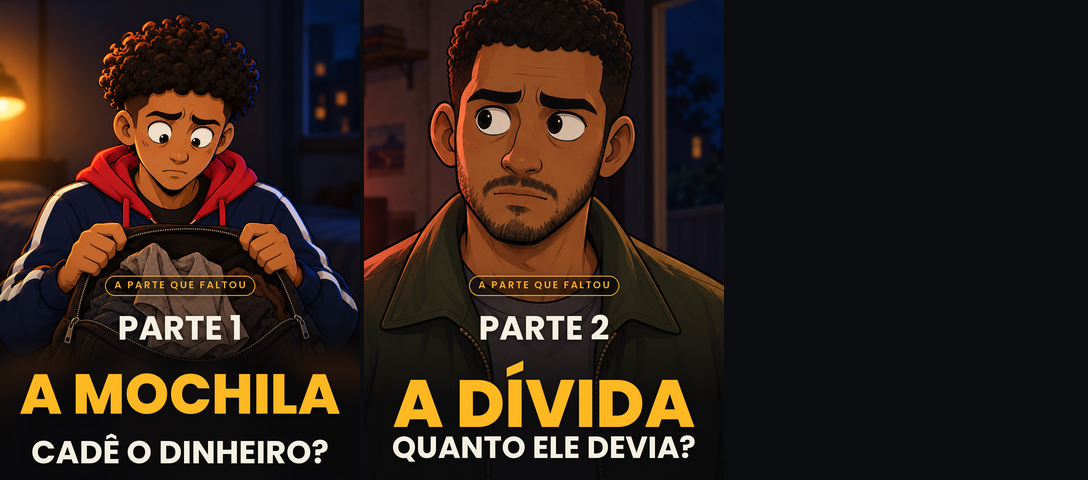
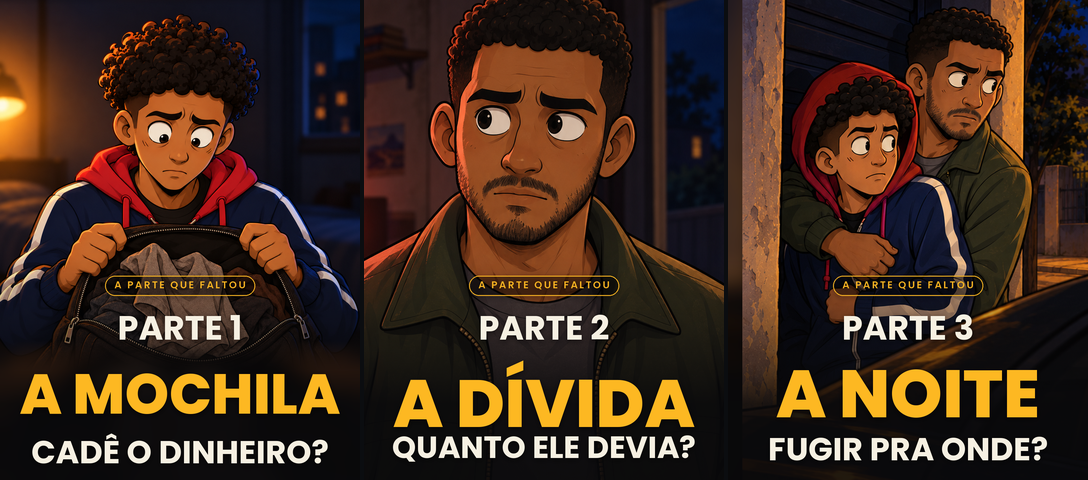
Capa da Parte 3: A noite, "fugir pra onde?"
Claude-Session: https://claude.ai/code/session_01UKvP9wMSuHQm8HVkwqcqQM

Changed region(s): [[0.6562, 0.0, 1.0, 0.875], [0.6875, 0.9062, 0.9688, 0.9688]]

diff --git a/crimecarton-analise/capas/gerar_capas.py b/crimecarton-analise/capas/gerar_capas.py
@@ -28,6 +28,8 @@ COVERS = [
          scale=1.10, focus=(.5, .40), at=(540, 640)),
     dict(part=2, title='A DÍVIDA', line='QUANTO ELE DEVIA?', art='../episodio-02/cena-08-retrato-amigo.png',
          scale=1.10, focus=(.5, .30), at=(540, 660)),
+    dict(part=3, title='A NOITE', line='FUGIR PRA ONDE?', art='../episodio-03/cena-09-porta-escura.png',
+         scale=1.45, focus=(.33, .27), at=(560, 640)),
 ]
 
 
